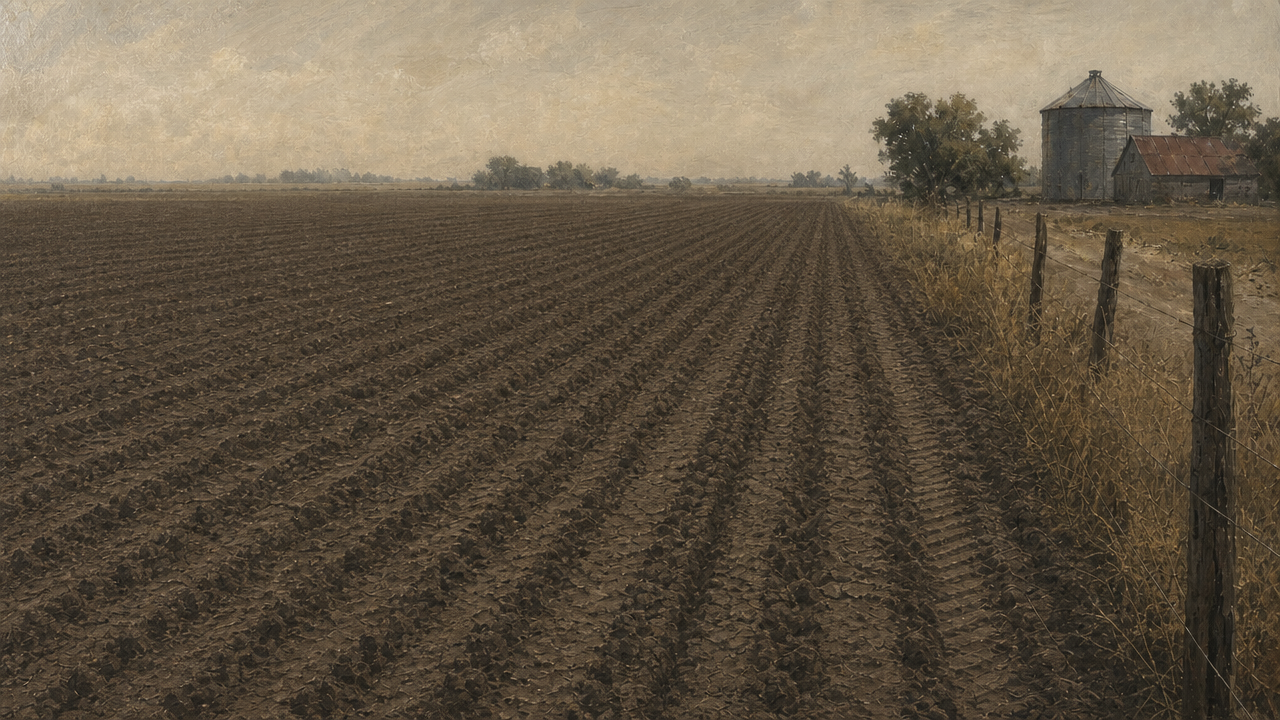
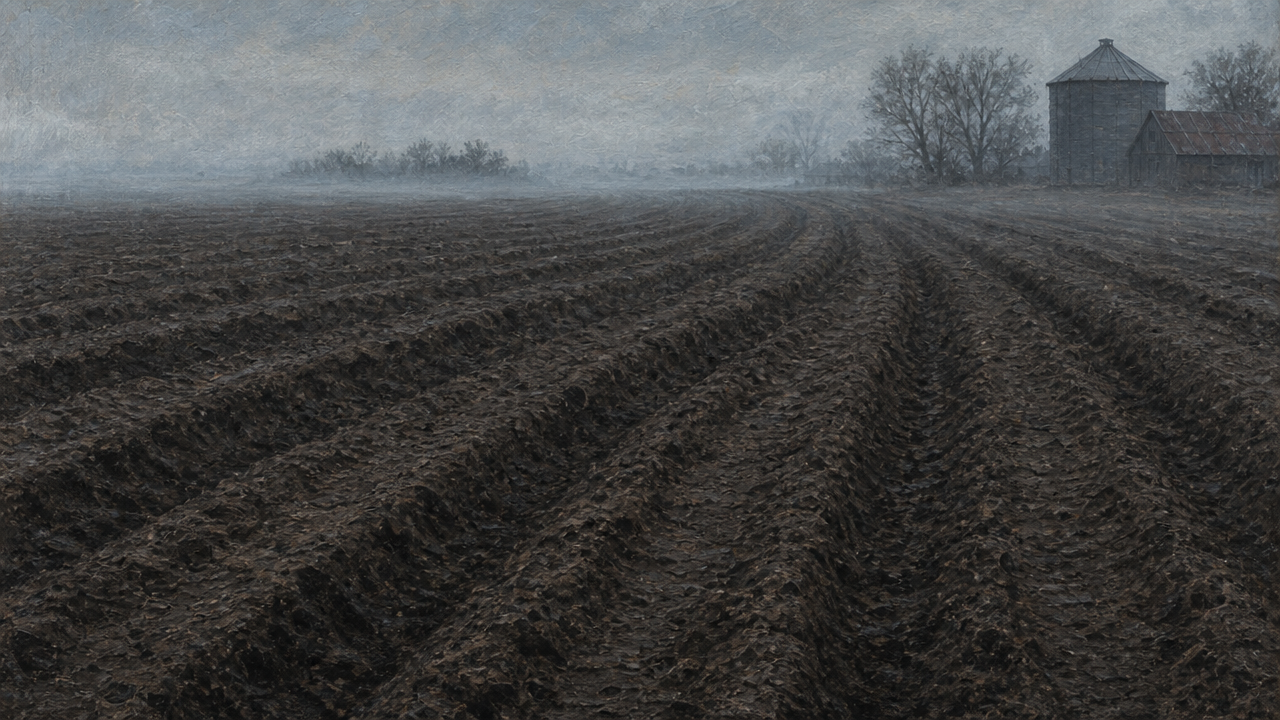
Field states get their own light, not just their own crop
Reviewing the corn set at true in-game card size exposed a real failure:
planted, emerged, stressed and harvested all read as 'brown field with a
fence' in a 9rem card. Only growing (green) and ready (gold) were
legible. Varying crop condition alone is not enough - the states without
a colorful crop collapsed into each other.

Regenerated those four so each state carries a distinct light and camera
signature: planted is cold blue dawn over misty furrows, emerged drops
to ground level so the seedlings read large, stressed is bleached
white-hot glare over cracked earth, harvested is warm evening rake light
with long shadows. All six are now distinguishable as thumbnails.

Adds art-review.html - a scratch page rendering every state at the exact
in-game card size (16:9, 9rem) so art can be judged in context instead
of as standalone paintings. Serve with: python3 -m http.server

109/109 passing.

diff --git a/art-review.html b/art-review.html
@@ -1,0 +1,87 @@
+<!doctype html>
+<html lang="en">
+<head>
+<meta charset="utf-8" />
+<title>Dirt Money — Art Review</title>
+<style>
+  :root {
+    --coffee-black: #15110C;
+    --cream: #E8DFC8;
+    --harvest-gold: #C9A227;
+    --brass: #8A6A35;
+  }
+  body {
+    margin: 0; padding: 2rem;
+    background: var(--coffee-black);
+    color: var(--cream);
+    font-family: Georgia, "Times New Roman", serif;
+  }
+  h1 { color: var(--harvest-gold); margin: 0 0 .25rem; }
+  p.sub { color: #9a8d75; margin: 0 0 2rem; font-size: .95rem; }
+  h2 { color: var(--harvest-gold); font-size: 1.05rem; margin: 2.5rem 0 1rem;
+       border-bottom: 1px solid rgba(138,106,53,.5); padding-bottom: .4rem; }
+  .grid { display: grid; grid-template-columns: repeat(3, 1fr); gap: 1.25rem; }
+  .card { background: #1d1811; border: 1px solid rgba(138,106,53,.45);
+          border-radius: 8px; padding: .9rem; }
+  /* Matches .field-card-art in src/styles.css exactly */
+  .field-card-art { aspect-ratio: 16/9; height: 9rem; width: 100%;
+                    object-fit: cover; margin-bottom: .8rem;
+                    border: 1px solid rgba(138,106,53,.58); border-radius: 6px;
+                    background: var(--coffee-black); display: block; }
+  .label { font-size: 1rem; color: var(--cream); }
+  .state { font-size: .8rem; color: var(--harvest-gold); text-transform: uppercase;
+           letter-spacing: .05em; }
+  .thumbs { display: grid; grid-template-columns: repeat(6, 1fr); gap: .6rem; }
+  .thumbs img { width: 100%; aspect-ratio: 16/9; object-fit: cover;
+                border: 1px solid rgba(138,106,53,.4); border-radius: 4px; }
+  .thumbs figcaption { font-size: .7rem; color: #9a8d75; text-align: center; margin-top: .3rem; }
+  .chrome { max-width: 640px; width: 100%; border-radius: 6px; display: block; }
+  figure { margin: 0; }
+</style>
+</head>
+<body>
+  <h1>Dirt Money — Art Review</h1>
+  <p class="sub">Style D (muted regionalist painting) at true in-game card size · Style B chrome below</p>
+
+  <h2>Field cards — actual size in the Fields Overview (16:9, 9rem tall)</h2>
+  <div class="grid">
+    <div class="card">
+      <img class="field-card-art" src="./assets/final/fields/dm_field_corn_planted.png" alt="">
+      <div class="label">South 40</div><div class="state">Planted</div>
+    </div>
+    <div class="card">
+      <img class="field-card-art" src="./assets/final/fields/dm_field_corn_emerged.png" alt="">
+      <div class="label">South 40</div><div class="state">Emerged</div>
+    </div>
+    <div class="card">
+      <img class="field-card-art" src="./assets/final/fields/dm_field_corn_growing.png" alt="">
+      <div class="label">South 40</div><div class="state">Growing — healthy</div>
+    </div>
+    <div class="card">
+      <img class="field-card-art" src="./assets/final/fields/dm_field_corn_stressed.png" alt="">
+      <div class="label">South 40</div><div class="state">Stressed</div>
+    </div>
+    <div class="card">
+      <img class="field-card-art" src="./assets/final/fields/dm_field_corn_ready.png" alt="">
+      <div class="label">South 40</div><div class="state">Ready</div>
+    </div>
+    <div class="card">
+      <img class="field-card-art" src="./assets/final/fields/dm_field_corn_harvested.png" alt="">
+      <div class="label">South 40</div><div class="state">Harvested</div>
+    </div>
+  </div>
+
+  <h2>Thumbnail legibility check — can you tell the states apart small?</h2>
+  <div class="thumbs">
+    <figure><img src="./assets/final/fields/dm_field_corn_planted.png" alt=""><figcaption>planted</figcaption></figure>
+    <figure><img src="./assets/final/fields/dm_field_corn_emerged.png" alt=""><figcaption>emerged</figcaption></figure>
+    <figure><img src="./assets/final/fields/dm_field_corn_growing.png" alt=""><figcaption>growing</figcaption></figure>
+    <figure><img src="./assets/final/fields/dm_field_corn_stressed.png" alt=""><figcaption>stressed</figcaption></figure>
+    <figure><img src="./assets/final/fields/dm_field_corn_ready.png" alt=""><figcaption>ready</figcaption></figure>
+    <figure><img src="./assets/final/fields/dm_field_corn_harvested.png" alt=""><figcaption>harvested</figcaption></figure>
+  </div>
+
+  <h2>Style B — ledger chrome</h2>
+  <img class="chrome" src="./assets/final/ui/dm_ui_ledger_panel.png" alt="">
+</body>
+</html>
